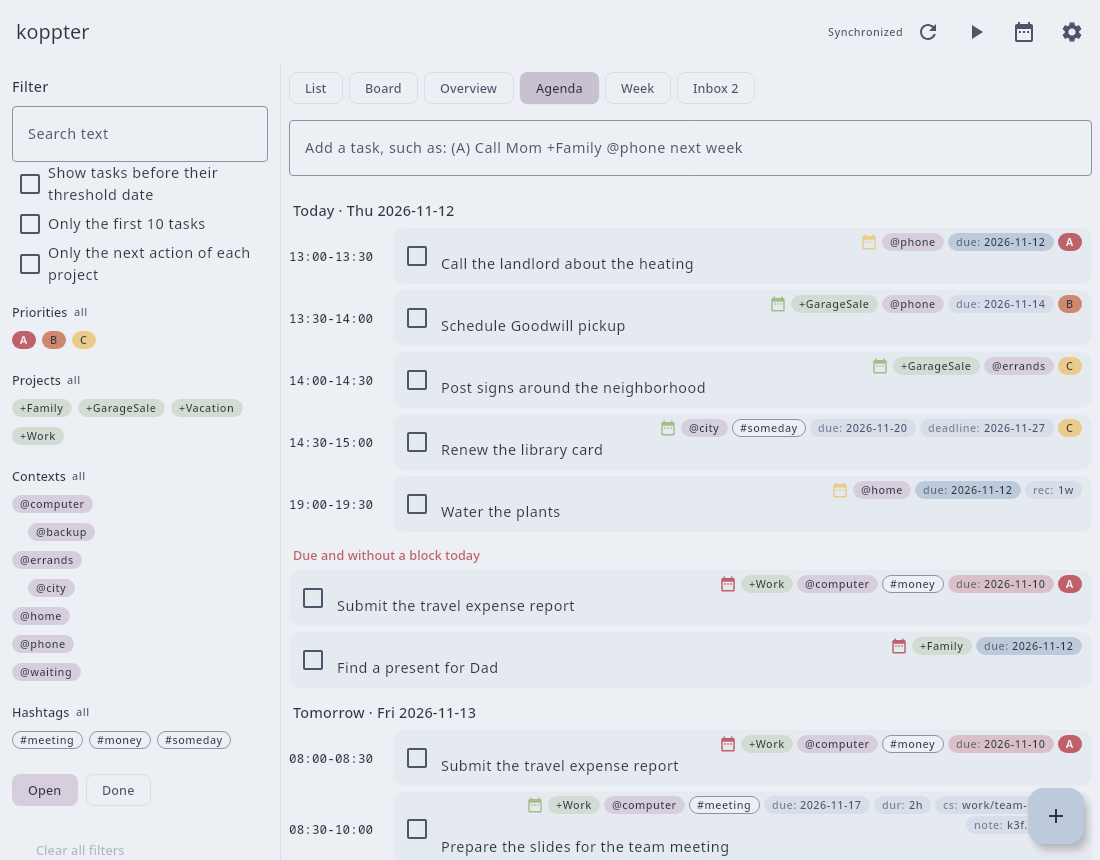
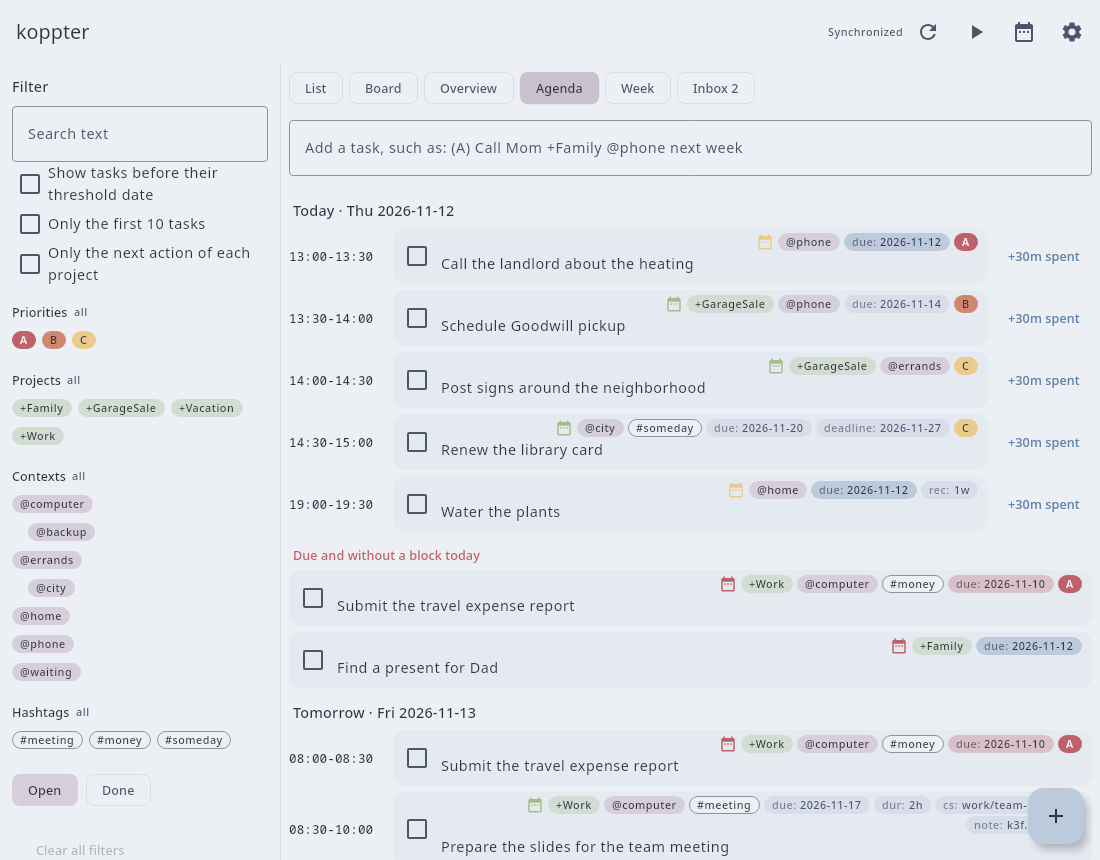
Plan the rest of a task after the time spent on it
A task that was worked on for a part of its duration was planned with all of it again.
The tag spent: now holds the time worked, written by the edit dialog or by a block of today in the agenda, and the plan gives the task what is left.

diff --git a/app/src/commonMain/kotlin/io/github/koppor/koppter/ui/EditDialog.kt b/app/src/commonMain/kotlin/io/github/koppor/koppter/ui/EditDialog.kt
@@ -105,6 +105,7 @@ fun EditDialog(
     var duration by remember(base) { mutableStateOf(base.tag(Task.DURATION).orEmpty()) }
     var at by remember(base) { mutableStateOf(base.tag(Task.AT).orEmpty()) }
     var travel by remember(base) { mutableStateOf(base.tag(Task.TRAVEL).orEmpty()) }
+    var spent by remember(base) { mutableStateOf(base.tag(Task.SPENT).orEmpty()) }
     var by by remember(base) { mutableStateOf(base.tag(Task.BY).orEmpty()) }
     var contextSwitcher by remember(base) { mutableStateOf(base.tag(Task.CONTEXT_SWITCHER).orEmpty()) }
     var projects by remember(base) { mutableStateOf(base.projects) }
@@ -119,6 +120,7 @@ fun EditDialog(
     val durationValid = duration.isBlank() || Task.parseDuration(duration.trim()) != null
     val atValid = at.isBlank() || Task.parseTime(at.trim()) != null
     val travelValid = travel.isBlank() || Task.parseDuration(travel.trim()) != null
+    val spentValid = spent.isBlank() || Task.parseDuration(spent.trim()) != null
     val byValid = by.isBlank() || Task.parseTime(by.trim()) != null
     val result = base
         .edit(description = description, priority = priority, projects = projects, contexts = contexts, hashtags = hashtags)
@@ -130,12 +132,13 @@ fun EditDialog(
         .withTag(Task.DURATION, duration.trim())
         .withTag(Task.AT, at.trim())
         .withTag(Task.TRAVEL, travel.trim())
+        .withTag(Task.SPENT, spent.trim())
         // A link pasted into the description counts only while the field is empty.
         .withTag(Task.CONTEXT_SWITCHER, Task.contextSwitcherId(contextSwitcher))
         .let { if (contextSwitcher.isBlank()) it.withContextSwitcherTags() else it }
         // [impl->dsn~notes~1]
         .let { if (originalNote == null) it else it.withTag(Task.NOTE, if (note.isBlank()) null else base.tag(Task.NOTE) ?: newNoteName) }
-    val valid = dueValid && deadlineValid && thresholdValid && recurrenceValid && durationValid && atValid && byValid && travelValid && result.body.isNotBlank()
+    val valid = dueValid && deadlineValid && thresholdValid && recurrenceValid && durationValid && atValid && byValid && travelValid && spentValid && result.body.isNotBlank()
 
     val descriptionFocus = remember { FocusRequester() }
     val keyboard = LocalKeyboard.current
@@ -249,6 +252,16 @@ fun EditDialog(
                         isError = !travelValid,
                         singleLine = true,
                         modifier = field.testTag("edit-travel"),
+                    )
+                    // [impl->dsn~time-spent~1]
+                    OutlinedTextField(
+                        value = spent,
+                        onValueChange = { spent = it },
+                        label = { Text("Time spent") },
+                        placeholder = { Text("1h30m") },
+                        isError = !spentValid,
+                        singleLine = true,
+                        modifier = field.testTag("edit-spent"),
                     )
                 }
 

diff --git a/core/src/commonMain/kotlin/io/github/koppor/koppter/todotxt/Task.kt b/core/src/commonMain/kotlin/io/github/koppor/koppter/todotxt/Task.kt
@@ -95,6 +95,13 @@ data class Task(
     /** The time the task is expected to take. */
     val duration: Duration? get() = tag(DURATION)?.let(::parseDuration)
 
+    /** The time that was worked on the task so far; the plan gives the task what is left of its duration. */
+    // [impl->dsn~time-spent~1]
+    val spent: Duration? get() = tag(SPENT)?.let(::parseDuration)
+
+    /** This task with [worked] added to the time spent on it. */
+    fun withSpent(worked: Duration): Task = withTag(SPENT, durationText((spent ?: Duration.ZERO) + worked))
+
     /** The minutes of the day at which the task takes place, for a task with a fixed time. */
     // [impl->dsn~fixed-time~1]
     val at: Int? get() = tag(AT)?.let(::parseTime)
@@ -202,7 +209,8 @@ data class Task(
         val threshold = threshold
         val from = if (recurrence.strict) due ?: threshold ?: today else today
         val next = recurrence.next(from)
-        val open = if (completed) reopen() else this
+        // The next occurrence starts anew: nothing was worked on it.
+        val open = (if (completed) reopen() else this).withTag(SPENT, null)
         return when {
             due != null && threshold != null ->
                 open.withTag(DUE, next.toString()).withTag(THRESHOLD, next.minus(threshold.daysUntil(due), DateTimeUnit.DAY).toString())
@@ -237,6 +245,7 @@ data class Task(
         const val AT = "at"
         const val BY = "dueby"
         const val TRAVEL = "tt"
+        const val SPENT = "spent"
 
         /** As topydo writes dependencies: a task with [ID] waits for the tasks whose [PARENT] has the same value. */
         const val ID = "id"
@@ -250,6 +259,10 @@ data class Task(
         /** Reads a duration such as `45m`, `2h` or `1h30m`; `null` if the text is none or not positive. */
         // [impl->dsn~duration~1]
         fun parseDuration(text: String): Duration? = Duration.parseOrNull(text)?.takeIf { it.isPositive() && it.isFinite() }
+
+        /** Writes a duration as [parseDuration] reads it, in hours and minutes: `1h30m`; empty for less than a minute. */
+        fun durationText(duration: Duration): String =
+            duration.inWholeMinutes.let { (if (it >= 60) "${it / 60}h" else "") + (if (it % 60 > 0) "${it % 60}m" else "") }
 
         /**
          * The link that makes ContextSwitcher switch to the task that a tag `cs:` names.

diff --git a/app/src/desktopTest/kotlin/io/github/koppor/koppter/ui/AppTest.kt b/app/src/desktopTest/kotlin/io/github/koppor/koppter/ui/AppTest.kt
@@ -519,6 +519,39 @@ class AppTest {
         assertEquals("Post signs +GarageSale tt:30m", storage.text.lines()[1])
     }
 
+    // [utest->dsn~time-spent~1]
+    @Test
+    fun theDialogSetsTheTimeSpent() = runComposeUiTest {
+        start()
+        openTask("Post signs")
+        onNodeWithTag("edit-spent").performScrollTo().performTextInput("long")
+        onNodeWithTag("edit-save").performScrollTo().assertIsNotEnabled()
+        onNodeWithTag("edit-spent").performScrollTo().performTextReplacement("1h30m")
+        onNodeWithTag("edit-save").performScrollTo().performClick()
+        assertEquals("Post signs +GarageSale spent:1h30m", storage.text.lines()[1])
+    }
+
+    // [utest->dsn~time-spent~1]
+    @Test
+    fun aBlockOfTodayAddsItsLengthToTheTimeSpentOnItsTask() = runComposeUiTest {
+        storage.companions["calendar.txt"] = """
+            2026-11-12 w46 Thu  09:00-09:45 Schedule pickup +GarageSale @phone. 10:00-11:30 Post signs +GarageSale. 12:00-12:30 A task that is gone
+            2026-11-13 w46 Fri  09:00-10:00 Thank Mom @phone
+        """.trimIndent() + "\n"
+        start()
+        onNodeWithTag("agenda-switch").performClick()
+        // Only the blocks of today whose task is there offer it.
+        onAllNodesWithTag("agenda-worked").assertCountEquals(2)
+        onAllNodesWithTag("agenda-worked")[0].assertTextEquals("+45m spent")
+        onAllNodesWithTag("agenda-worked")[1].assertTextEquals("+1h30m spent").performClick()
+        assertEquals("Post signs +GarageSale spent:1h30m", storage.text.lines()[1])
+        // A block is counted once.
+        onAllNodesWithTag("agenda-worked").assertCountEquals(1)
+        onNodeWithTag("agenda-worked").performClick()
+        assertEquals(true, storage.text.lines().any { "Schedule pickup" in it && it.endsWith("spent:45m") })
+        onAllNodesWithTag("agenda-worked").assertCountEquals(0)
+    }
+
     // [utest->dsn~due-time~1]
     @Test
     fun theDialogSetsTheTimeByWhichATaskIsDue() = runComposeUiTest {

diff --git a/app/src/commonMain/kotlin/io/github/koppor/koppter/ui/Agenda.kt b/app/src/commonMain/kotlin/io/github/koppor/koppter/ui/Agenda.kt
@@ -1,5 +1,8 @@
 package io.github.koppor.koppter.ui
 
+import kotlin.time.Duration.Companion.minutes
+import io.github.koppor.koppter.todotxt.Task
+import androidx.compose.runtime.mutableStateListOf
 import io.github.koppor.koppter.todotxt.LEVEL_SEPARATOR
 import androidx.compose.ui.input.key.onPreviewKeyEvent
 import androidx.compose.ui.input.key.type
@@ -78,7 +81,10 @@ fun Agenda(
     today: LocalDate,
     onToggle: (Entry) -> Unit,
     onOpen: (Entry) -> Unit,
+    onWorked: (Entry, Int) -> Unit,
 ) {
+    // A block is counted once, also when the button is hit twice.
+    val counted = remember { mutableStateListOf<TextBlock>() }
     Column(Modifier.verticalScroll(rememberScrollState()).padding(8.dp).testTag("agenda"), verticalArrangement = Arrangement.spacedBy(6.dp)) {
         if (blocks == null) Text(NO_PLAN, Modifier.padding(8.dp))
         for (offset in 0..6) {
@@ -102,6 +108,16 @@ fun Agenda(
                             // The task was completed, deleted or edited after it was planned.
                             Text(block.text, Modifier.padding(12.dp), color = MaterialTheme.colorScheme.onSurfaceVariant)
                         }
+                    }
+                    // [impl->dsn~time-spent~1]
+                    if (entry != null && offset == 0 && block !in counted) {
+                        TextButton(
+                            onClick = {
+                                counted += block
+                                onWorked(entry, block.span.length)
+                            },
+                            modifier = Modifier.testTag("agenda-worked"),
+                        ) { Text("+${Task.durationText(block.span.length.minutes)} spent") }
                     }
                 }
             }

diff --git a/core/src/commonMain/kotlin/io/github/koppor/koppter/plan/Planner.kt b/core/src/commonMain/kotlin/io/github/koppor/koppter/plan/Planner.kt
@@ -10,6 +10,7 @@ import kotlinx.datetime.LocalDate
 import kotlinx.datetime.isoDayNumber
 import kotlinx.datetime.minus
 import kotlinx.datetime.plus
+import kotlin.time.Duration
 import kotlin.time.Duration.Companion.minutes
 
 /**
@@ -141,6 +142,16 @@ data class Plan(val blocks: List<Block>, val unplaced: List<Entry>, val problems
 // ponytail: a constant; a setting when half an hour does not fit the tasks without duration.
 val DEFAULT_DURATION = 30.minutes
 
+/**
+ * The minutes that the plan gives a task: its duration without the time spent on it.
+ * A task that took its duration and is still open is not done, so that it gets the default duration again.
+ */
+// [impl->dsn~time-spent~1]
+internal fun minutesLeft(task: Task): Int {
+    val left = (task.duration ?: DEFAULT_DURATION) - (task.spent ?: Duration.ZERO)
+    return (if (left.inWholeMinutes > 0) left else DEFAULT_DURATION).inWholeMinutes.toInt()
+}
+
 /** A block does not start between these minutes after a time that is taken by something else than a task. */
 private const val GRID = 15
 
@@ -229,7 +240,7 @@ private class Planning(
     private val busy = busy + (today to busy[today].orEmpty() + Span(0, now))
     private val taken = mutableMapOf<LocalDate, MutableList<Span>>()
     private val blocks = mutableMapOf<Entry, MutableList<Block>>()
-    private val left = dependencies.order.associateWithTo(mutableMapOf()) { (it.task.duration ?: DEFAULT_DURATION).inWholeMinutes.toInt() }
+    private val left = dependencies.order.associateWithTo(mutableMapOf()) { minutesLeft(it.task) }
     private val unplaced = mutableListOf<Entry>()
 
     /** The tasks that are not to be planned yet: their threshold date lies behind their barrier, or they wait for such a task. */

diff --git a/core/src/commonTest/kotlin/io/github/koppor/koppter/todotxt/TaskTest.kt b/core/src/commonTest/kotlin/io/github/koppor/koppter/todotxt/TaskTest.kt
@@ -1,5 +1,7 @@
 package io.github.koppor.koppter.todotxt
 
+import kotlin.time.Duration.Companion.minutes
+import kotlin.time.Duration.Companion.hours
 import kotlinx.datetime.LocalDate
 import kotlin.test.Test
 import kotlin.test.assertEquals
@@ -305,5 +307,18 @@ class TaskTest {
             "Send the report rec:+1w deadline:2026-12-07T23:59-12:00",
             Task.parse("Send the report rec:+1w deadline:2026-11-30T23:59-12:00").nextOccurrence(today)!!.toLine(),
         )
+    }
+
+    // [utest->dsn~time-spent~1]
+    @Test
+    fun theTimeSpentIsATagThatGrowsAndThatTheNextOccurrenceDoesNotKeep() {
+        val task = Task.parse("Prepare the lecture @work due:2026-11-16 rec:+1w dur:4h")
+        assertEquals(null, task.spent)
+        assertEquals("Prepare the lecture @work due:2026-11-16 rec:+1w dur:4h spent:45m", task.withSpent(45.minutes).toLine())
+        val worked = task.withSpent(45.minutes).withSpent(90.minutes)
+        assertEquals("Prepare the lecture @work due:2026-11-16 rec:+1w dur:4h spent:2h15m", worked.toLine())
+        assertEquals(135.minutes, worked.spent)
+        assertEquals("spent:2h", Task.parse("Call Mom spent:1h").withSpent(1.hours).toLine().substringAfter("Mom "))
+        assertEquals("Prepare the lecture @work due:2026-11-23 rec:+1w dur:4h", worked.nextOccurrence(today)?.toLine())
     }
 }

diff --git a/core/src/commonTest/kotlin/io/github/koppor/koppter/plan/PlannerTest.kt b/core/src/commonTest/kotlin/io/github/koppor/koppter/plan/PlannerTest.kt
@@ -516,4 +516,27 @@ class PlannerTest {
         val done = TodoFile.parse("x Water the plants @home\nWater the plants @home\n").entries
         assertEquals(mapOf(done[1] to "Water the plants @home"), CalendarTxt.names(done))
     }
+
+    // [utest->dsn~time-spent~1]
+    @Test
+    fun aTaskGetsWhatIsLeftOfItsDurationAfterTheTimeSpentOnIt() {
+        val plan = plan(
+            """
+            (A) Write the report dur:4h spent:2h30m
+            (B) Review the paper dur:1h spent:1h15m
+            (C) Answer the mail spent:10m
+            (D) Call the landlord dur:45m
+            """,
+        )
+        assertEquals(
+            listOf(
+                "2026-11-12 8:00 90 Write the report",
+                // The time is used up and the task is open: it gets the half hour of a task without duration.
+                "2026-11-12 9:30 30 Review the paper",
+                "2026-11-12 10:00 20 Answer the mail",
+                "2026-11-12 10:20 45 Call the landlord",
+            ),
+            plan.lines(),
+        )
+    }
 }

diff --git a/app/src/commonMain/kotlin/io/github/koppor/koppter/ui/App.kt b/app/src/commonMain/kotlin/io/github/koppor/koppter/ui/App.kt
@@ -309,7 +309,7 @@ private fun MainScreen(
                                 Overview(overviewStates(controller.visible, controller.today(), controller.overviewKey, controller.file.entries), controller.today(), open, emptyText)
                             }
                         } else if (controller.view == View.AGENDA) {
-                            Agenda(controller.planBlocks, controller.dueUnplanned, controller::entryOf, controller.today(), controller::toggle, open)
+                            Agenda(controller.planBlocks, controller.dueUnplanned, controller::entryOf, controller.today(), controller::toggle, open, controller::worked)
                         } else if (controller.view == View.WEEK) {
                             Week(controller.planBlocks, controller::entryOf, controller::planSuffix, controller.today(), open)
                         } else if (controller.view == View.INBOX) {

diff --git a/app/src/commonMain/kotlin/io/github/koppor/koppter/ui/TodoController.kt b/app/src/commonMain/kotlin/io/github/koppor/koppter/ui/TodoController.kt
@@ -50,6 +50,7 @@ import kotlinx.datetime.LocalDate
 import kotlinx.datetime.TimeZone
 import kotlinx.datetime.plus
 import kotlin.random.Random
+import kotlin.time.Duration.Companion.minutes
 
 /**
  * The state of the application and the operations on it.
@@ -616,6 +617,13 @@ class TodoController(
     fun delete(entry: Entry) {
         val index = locate(entry) ?: return
         write(file.remove(index), "Delete task: ${entry.task.description}")
+    }
+
+    /** Adds the minutes of a block of the plan to the time spent on its task. */
+    // [impl->dsn~time-spent~1]
+    fun worked(entry: Entry, minutes: Int) {
+        val index = locate(entry) ?: return
+        write(file.replace(index, entry.task.withSpent(minutes.minutes)), "Note the time spent: ${entry.task.description}")
     }
 
     fun updateSettings(new: Settings) {

diff --git a/core/src/commonMain/kotlin/io/github/koppor/koppter/todotxt/Lint.kt b/core/src/commonMain/kotlin/io/github/koppor/koppter/todotxt/Lint.kt
@@ -46,6 +46,7 @@ private val VALUES: Map<String, Pair<String, (String) -> Any?>> = mapOf(
     Task.RECURRENCE to ("a recurrence such as 2w or +1m" to Recurrence::parse),
     Task.DURATION to ("a duration such as 30m or 1h30m" to Task::parseDuration),
     Task.TRAVEL to ("a duration such as 30m or 1h30m" to Task::parseDuration),
+    Task.SPENT to ("a duration such as 30m or 1h30m" to Task::parseDuration),
     Task.AT to ("a time as HH:MM" to Task::parseTime),
     Task.BY to ("a time as HH:MM" to Task::parseTime),
 )

diff --git a/core/src/commonTest/kotlin/io/github/koppor/koppter/todotxt/LintTest.kt b/core/src/commonTest/kotlin/io/github/koppor/koppter/todotxt/LintTest.kt
@@ -90,6 +90,12 @@ class LintTest {
         )
     }
 
+    // [utest->dsn~time-spent~1]
+    @Test
+    fun aTimeSpentThatIsNoDurationIsAnError() {
+        assertEquals(listOf("todo.txt:1: error: spent:much is not a duration such as 30m or 1h30m"), findings("Write the report @work dur:4h spent:much\nCall Mom @phone spent:20m\n"))
+    }
+
     // [utest->dsn~lint-formats~1]
     @Test
     fun findingsAreWrittenForAnEditorForGitHubActionsOrAsATable() {

diff --git a/README.md b/README.md
@@ -211,6 +211,7 @@ The column *Source* names the tool or document that defines each of them; those 
 | `dueby:14:00` | The time of the due date by which the task has to be done | This application | Field *Due time* in the edit dialog, or typed into the task next to `due:`. Among the tasks of a day, the earlier time comes first, and the icon of the [plan](#planning) is red if the task is planned to end later ([decision 0030](docs/decisions/0030-tag-for-the-time-of-the-due-date-named-dueby.md)). |
 | `deadline:2026-11-30` | The day that others set for the task, next to the day to have it done by | This application | Field *Deadline* in the edit dialog, or typed into the task; see [Deadline next to the due date](#deadline-next-to-the-due-date) ([decision 0028](docs/decisions/0028-tag-for-the-deadline-next-to-the-due-date.md)). |
 | `at:12:00` | The time of the day at which the task takes place | This application | Field *Fixed time* in the edit dialog, or typed into the task. [Planning](#fixed-times) gives the task that time and plans the others around it ([decision 0021](docs/decisions/0021-tag-for-the-fixed-time-of-a-task.md)). |
+| `spent:1h30m` | The time that was worked on the task so far | This application | Field *Time spent* in the edit dialog, the button of a block in the agenda, or typed into the task. [Planning](#time-spent) gives the task the rest of its duration ([decision 0034](docs/decisions/0034-tag-for-the-time-spent-on-a-task.md)). |
 | `tt:30m` | The time that the way to the task takes, and the way back as well | This application | Field *Travel time* in the edit dialog, or typed into the task. [Planning](#travel-time) keeps that time free before and after the task ([decision 0023](docs/decisions/0023-tag-for-the-travel-time-of-a-task.md)). |
 | `id:1`, `p:1` | The task with `id:1` waits for the tasks with `p:1`, as topydo writes dependencies | [topydo](https://github.com/topydo/topydo/wiki/Dependencies) | Typed into the task. [Planning](#planning) gives the task its times after those it waits for ([decision 0020](docs/decisions/0020-dependencies-with-the-tags-of-topydo.md)). |
 | `cs:jabref/fix-npe` | The task of [ContextSwitcher](https://github.com/contextswitcher/contextswitcher) that holds the working context | This application | Entered in the field *ContextSwitcher task* of the edit dialog or typed into the task, as the id or as the link that *Copy link* of ContextSwitcher gives, which becomes the tag. A click on the label switches to the task in ContextSwitcher, on a computer where it has registered its links ([decision 0016](docs/decisions/0016-tag-for-the-task-of-contextswitcher.md)). |
@@ -521,6 +522,19 @@ Use it for what has its time, such as lunch, a training or an appointment, so th
 * The task of the day is completed like any other task, which takes its block from the next plan.
 * A time that is over is not planned any more.
 * The time counts for a budget of the project and the contexts of the task.
+
+### Time spent
+
+A task with the tag `spent:` was worked on already: the plan gives it the rest of its duration, and the estimate stays in `dur:`.
+
+| Line | Planned |
+| --- | --- |
+| `Write the report dur:4h spent:2h30m` | 1 hour and 30 minutes |
+| `Review the paper dur:1h spent:1h15m` | 30 minutes: the time is used up and the task is open, so it counts as a task without duration |
+
+* In the agenda, each block of today has a button such as *+45m spent*, which adds the length of the block to the tag.
+* The field *Time spent* of the edit dialog holds the sum and corrects it.
+* A completed task keeps both tags and tells what it was estimated at and what it took; the next occurrence of a recurring task starts without time spent.
 
 ### Travel time
 
